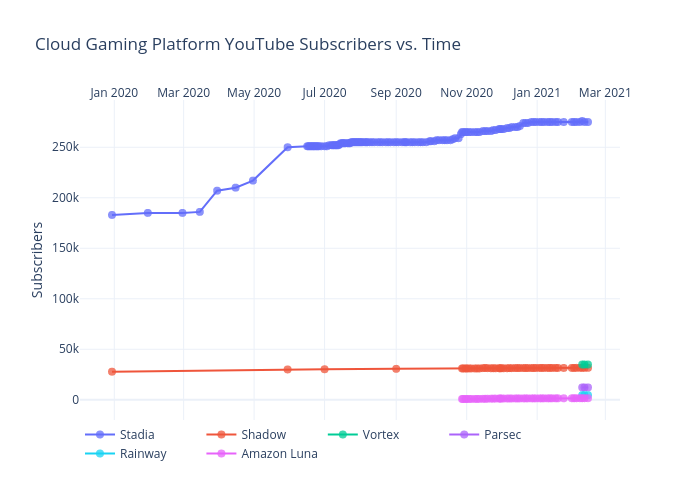
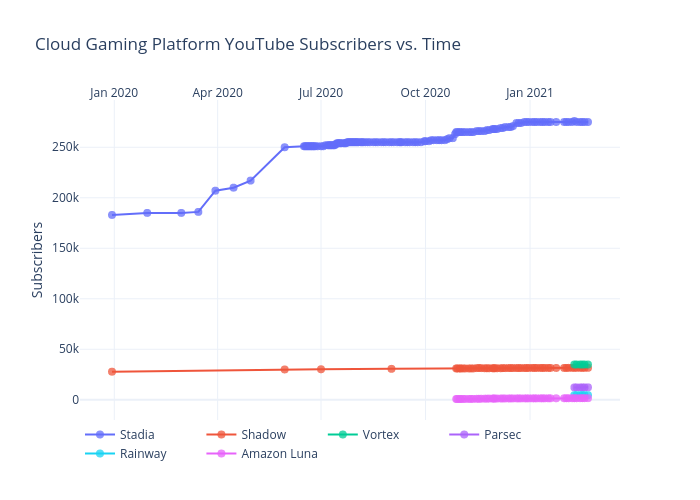
Add files via upload

diff --git a/youtube_platforms/figure.js b/youtube_platforms/figure.js
@@ -154,7 +154,10 @@ var figure = {
                 "2021-02-07",
                 "2021-02-09",
                 "2021-02-11",
-                "2021-02-14"
+                "2021-02-14",
+                "2021-02-16",
+                "2021-02-18",
+                "2021-02-21"
             ],
             "ysrc": "jdeslip:352:b82b2c",
             "y": [
@@ -299,6 +302,9 @@ var figure = {
                 "275000",
                 "275000",
                 "276000",
+                "275000",
+                "275000",
+                "275000",
                 "275000",
                 "275000"
             ],
@@ -464,7 +470,10 @@ var figure = {
                 "2021-02-07",
                 "2021-02-09",
                 "2021-02-11",
-                "2021-02-14"
+                "2021-02-14",
+                "2021-02-16",
+                "2021-02-18",
+                "2021-02-21"
             ],
             "ysrc": "jdeslip:352:672089",
             "y": [
@@ -606,6 +615,9 @@ var figure = {
                 null,
                 "31500",
                 "31500",
+                "31600",
+                "31600",
+                "31600",
                 "31600",
                 "31600",
                 "31600",
@@ -774,7 +786,10 @@ var figure = {
                 "2021-02-07",
                 "2021-02-09",
                 "2021-02-11",
-                "2021-02-14"
+                "2021-02-14",
+                "2021-02-16",
+                "2021-02-18",
+                "2021-02-21"
             ],
             "ysrc": "jdeslip:352:b81bb7",
             "y": [
@@ -918,6 +933,9 @@ var figure = {
                 null,
                 null,
                 null,
+                "34900",
+                "34900",
+                "34900",
                 "34900",
                 "34900",
                 "34900"
@@ -1084,7 +1102,10 @@ var figure = {
                 "2021-02-07",
                 "2021-02-09",
                 "2021-02-11",
-                "2021-02-14"
+                "2021-02-14",
+                "2021-02-16",
+                "2021-02-18",
+                "2021-02-21"
             ],
             "ysrc": "jdeslip:352:0a58d4",
             "y": [
@@ -1230,7 +1251,10 @@ var figure = {
                 null,
                 "12200",
                 "12200",
-                "12200"
+                "12200",
+                "12200",
+                "12200",
+                "12300"
             ],
             "marker": {
                 "size": 8,
@@ -1394,7 +1418,10 @@ var figure = {
                 "2021-02-07",
                 "2021-02-09",
                 "2021-02-11",
-                "2021-02-14"
+                "2021-02-14",
+                "2021-02-16",
+                "2021-02-18",
+                "2021-02-21"
             ],
             "ysrc": "jdeslip:352:357165",
             "y": [
@@ -1540,6 +1567,9 @@ var figure = {
                 null,
                 "4570",
                 "4580",
+                "4570",
+                "4570",
+                "4570",
                 "4570"
             ],
             "marker": {
@@ -1704,7 +1734,10 @@ var figure = {
                 "2021-02-07",
                 "2021-02-09",
                 "2021-02-11",
-                "2021-02-14"
+                "2021-02-14",
+                "2021-02-16",
+                "2021-02-18",
+                "2021-02-21"
             ],
             "ysrc": "jdeslip:352:d22faa",
             "y": [
@@ -1850,7 +1883,10 @@ var figure = {
                 "1520",
                 "1520",
                 "1530",
-                "1540"
+                "1540",
+                "1550",
+                "1560",
+                "1580"
             ],
             "marker": {
                 "size": 8,
@@ -1869,8 +1905,8 @@ var figure = {
             "side": "top",
             "type": "date",
             "range": [
-                "2019-12-04 12:37:48.5488",
-                "2021-03-11 11:22:11.4512"
+                "2019-12-04 02:14:34.0824",
+                "2021-03-18 21:45:25.9176"
             ],
             "title": {
                 "text": ""
